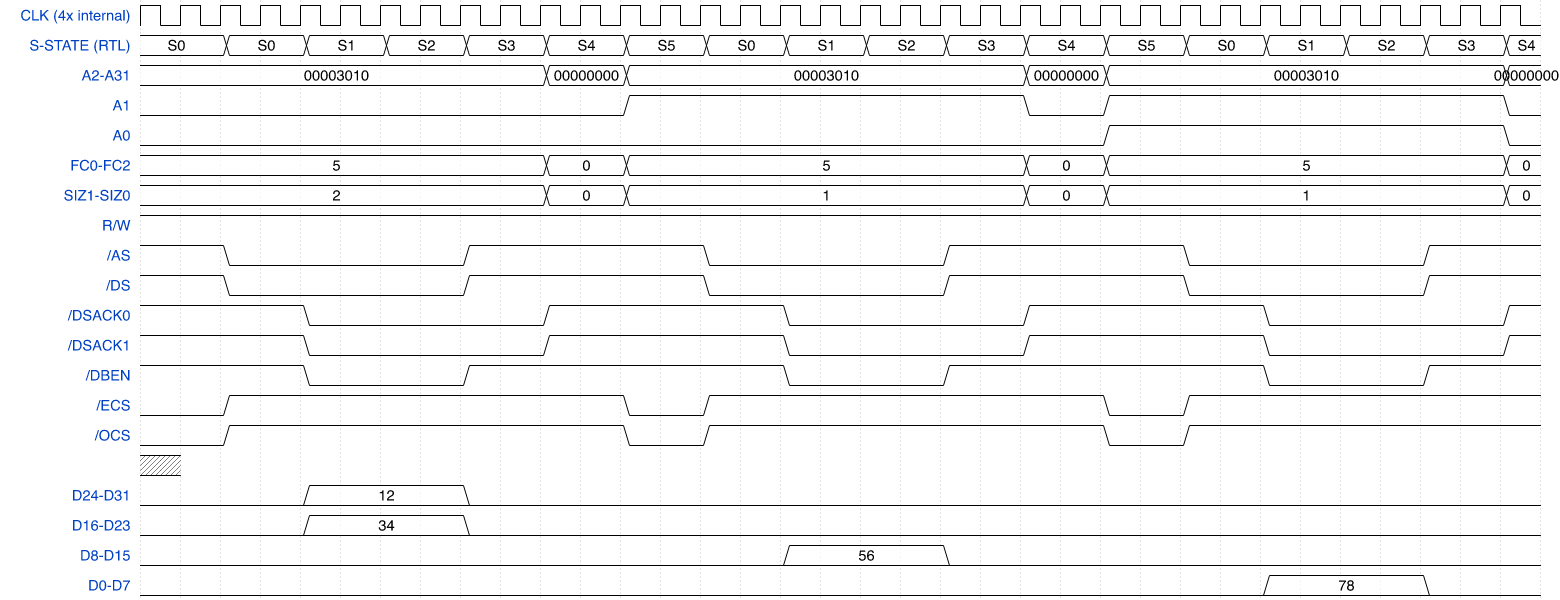
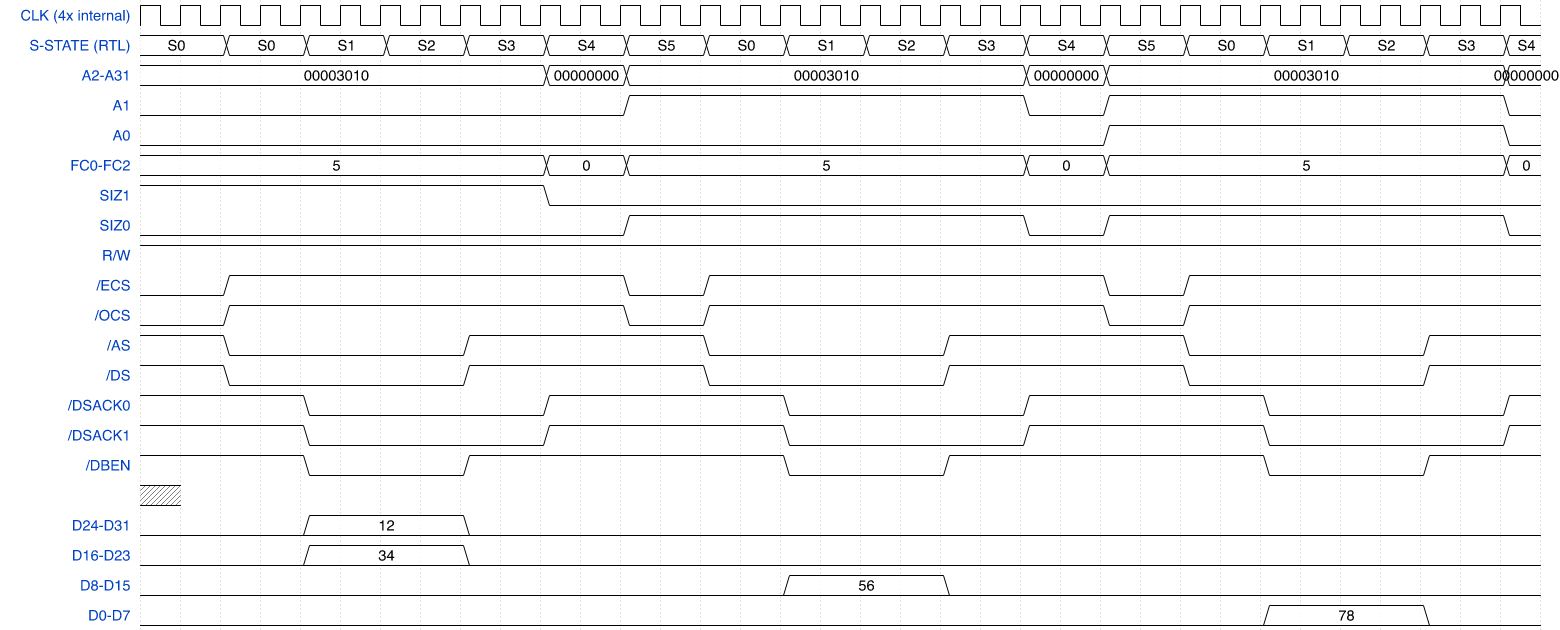
timing_diagrams: match the manual's own signal order and SIZ layout
Two rendering-only changes to vcd_to_wavedrom.py, requested after
comparing against MC68030UM.pdf Figure 7-21 directly:

1. /ECS and /OCS moved before /AS/DS/DSACK/DBEN in
   ACTIVE_LOW_LEVEL_SIGNALS, matching the manual's own row order
   (...FC, SIZ1, SIZ0, R/W, /ECS, /OCS, /AS, /DS, /DSACK, /DBEN...).
2. SIZ1/SIZ0 now plotted as two separate single-bit level rows (via a
   new wave_for_bit() helper, generalized from the existing addr-bit
   extraction already used for A1/A0) instead of one combined 2-bit
   data-box row -- matching the manual, which also plots them
   separately.

Regenerated all three diagrams (read_cycle, read_cycle_eu,
preview_dispatch) from their existing VCDs -- pure re-rendering, no
simulation re-run needed since only the Python spec generation changed.

No RTL touched.

Claude-Session: https://claude.ai/code/session_01HfLwq9Sabtv7sLTBUnC2sM

diff --git a/timing_diagrams/scripts/vcd_to_wavedrom.py b/timing_diagrams/scripts/vcd_to_wavedrom.py
@@ -25,14 +25,20 @@ VCD format notes (see IEEE 1364-2005 Annex A, or just Icarus's own output):
     is naturally insensitive to this, so it's never worth de-duplicating.
 
 Rendered signal set mirrors MC68030UM.pdf Figure 7-21's own layout as
-closely as this project's own m68030_biu ports allow: address split into
-A2-A31/A1/A0 (masking the low 2 bits out of A2-A31 so it reads as
-constant across a same-longword chain, matching the manual), /ECS and
-/OCS included (both are real m68030_biu ports), and the data bus split
-into 4 byte lanes (D24-D31/D16-D23/D8-D15/D0-D7) with only the lane(s)
-actually selected by SIZ+A1/A0 populated per column -- everything else
-matches the underlying real value (mem_model.sv drives the full stored
-longword on every access; the *display* re-derives which lanes a real
+closely as this project's own m68030_biu ports allow, both in which
+signals are shown and their row order (CLK, address, FC, SIZ1, SIZ0,
+R/W, /ECS, /OCS, /AS, /DS, /DSACK0, /DSACK1, /DBEN, then the 4 data
+lanes): address split into A2-A31/A1/A0 (masking the low 2 bits out of
+A2-A31 so it reads as constant across a same-longword chain, matching
+the manual), SIZ1/SIZ0 plotted as two separate single-bit rows rather
+than one combined 2-bit data-box row (matching the manual, which also
+plots them separately), /ECS and /OCS included (both are real
+m68030_biu ports) and ordered before /AS/DS/DSACK/DBEN as the manual
+has them, and the data bus split into 4 byte lanes (D24-D31/D16-D23/
+D8-D15/D0-D7) with only the lane(s) actually selected by SIZ+A1/A0
+populated per column -- everything else matches the underlying real
+value (mem_model.sv drives the full stored longword on every access;
+the *display* re-derives which lanes a real
 32-bit-port peripheral would actually be read from, the same computation
 biu_byte_lane_ctrl.sv performs internally for writes).
 
@@ -157,13 +163,13 @@ def build_columns(changes, clk_id, window_start, window_end):
 
 
 ACTIVE_LOW_LEVEL_SIGNALS = [
+    ('ext_ecs_n',  '/ECS'),
+    ('ext_ocs_n',  '/OCS'),
     ('ext_as_n',   '/AS'),
     ('ext_ds_n',   '/DS'),
     ('dsack0_n',   '/DSACK0'),
     ('dsack1_n',   '/DSACK1'),
     ('ext_dben_n', '/DBEN'),
-    ('ext_ecs_n',  '/ECS'),
-    ('ext_ocs_n',  '/OCS'),
 ]
 
 # byte_index -> (bit_hi, bit_lo) within a 32-bit big-endian D0-D31 bus,
@@ -205,7 +211,6 @@ def main():
 
     bus_signals = [
         ('ext_fc',  'FC0-FC2', 3),
-        ('ext_siz', 'SIZ1-SIZ0', 2),
     ]
 
     wanted = {args.clock, args.start_signal, 'ext_a', 'ext_siz', 'ext_d_in', 's_state'}
@@ -271,8 +276,12 @@ def main():
                 prev = hv
         return wave, data
 
-    def wave_for_addr_bit(bit_index):
-        vid = name_to_id['ext_a']
+    def wave_for_bit(signal_name, bit_index):
+        """Single-bit level waveform extracted from a wider bus signal --
+        used for A1/A0 (out of ext_a) and SIZ1/SIZ0 (out of ext_siz), each
+        plotted as its own row to match the manual's own layout rather
+        than a single combined multi-bit data-box row."""
+        vid = name_to_id[signal_name]
         wave = ''
         prev = None
         for t in columns:
@@ -382,8 +391,8 @@ def main():
 
     addr_wave, addr_data = wave_and_data_for_bus('ext_a', 32, mask_low_bits=2)
     signal_list.append({'name': 'A2-A31', 'wave': addr_wave, 'data': addr_data})
-    signal_list.append({'name': 'A1', 'wave': wave_for_addr_bit(1)})
-    signal_list.append({'name': 'A0', 'wave': wave_for_addr_bit(0)})
+    signal_list.append({'name': 'A1', 'wave': wave_for_bit('ext_a', 1)})
+    signal_list.append({'name': 'A0', 'wave': wave_for_bit('ext_a', 0)})
 
     for name, label, nbits in bus_signals:
         wave, data = wave_and_data_for_bus(name, nbits)
@@ -391,6 +400,11 @@ def main():
         if data:
             entry['data'] = data
         signal_list.append(entry)
+
+    # SIZ1/SIZ0 as two separate single-bit rows (matching the manual's own
+    # layout) rather than one combined 2-bit data-box row.
+    signal_list.append({'name': 'SIZ1', 'wave': wave_for_bit('ext_siz', 1)})
+    signal_list.append({'name': 'SIZ0', 'wave': wave_for_bit('ext_siz', 0)})
 
     signal_list.append({'name': 'R/W', 'wave': wave_for_level('ext_rw')})
     for name, label in ACTIVE_LOW_LEVEL_SIGNALS:
